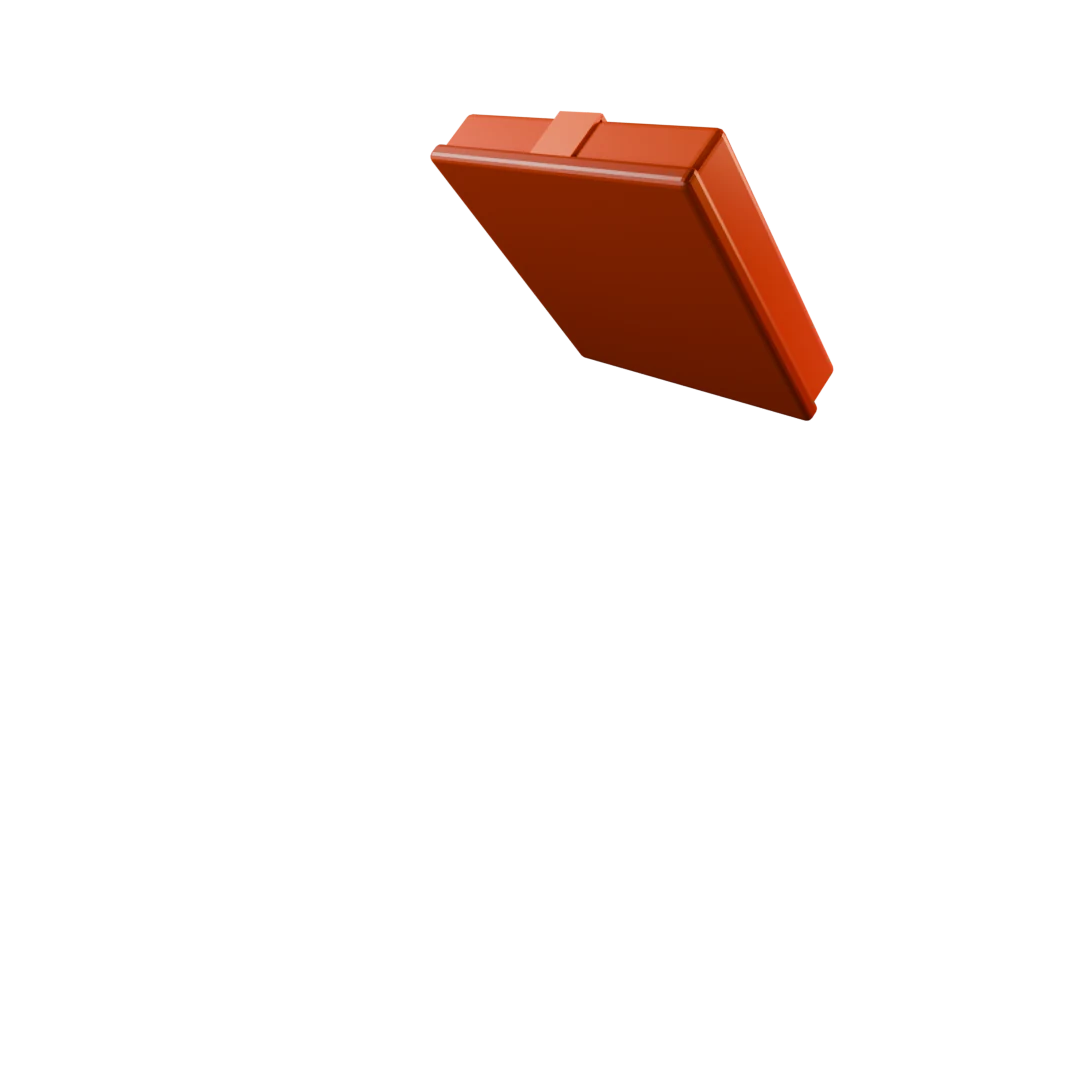
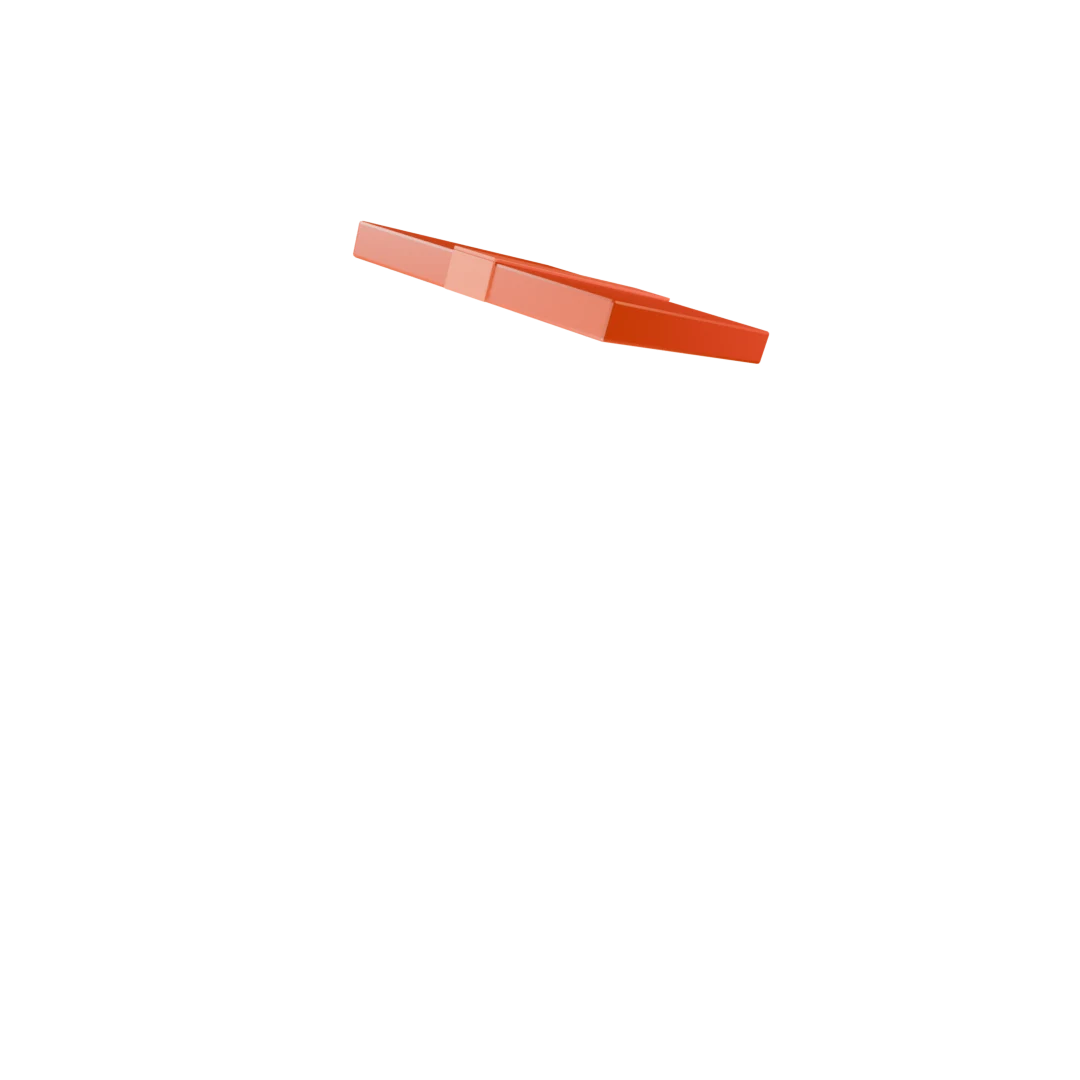
Slim tray lid (thin-walled, no rim band) + levitating flight; og-image refreshed

Changed region(s): [[0.3056, 0.0917, 0.7944, 0.3972]]

diff --git a/index.html b/index.html
@@ -2209,7 +2209,7 @@
     document.body.appendChild(intro);
     var lidImg = intro.querySelector(".ib-lid");
     var lidFrames = ["intro-lid-lift-1.webp", "intro-lid-lift-2.webp", "intro-lid-lift-3.webp", "intro-lid-lift-4.webp"];
-    var lidDelays = [690, 780, 885, 1015];
+    var lidDelays = [700, 805, 925, 1065];
     lidFrames.forEach(function (src, i) {
       setTimeout(function () { lidImg.src = src; }, lidDelays[i]);
     });
